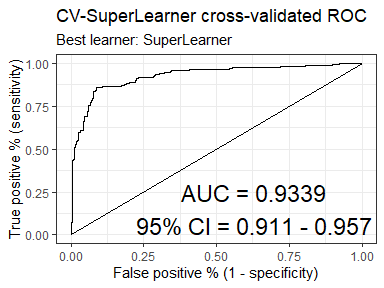
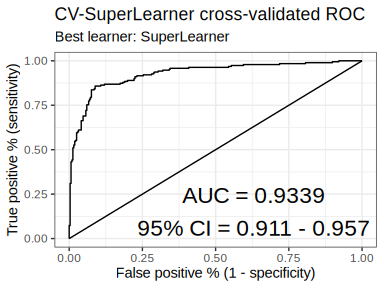
Re-knit README and carry badge update into README.Rmd
The GitHub Actions badges were added directly to README.md in e24cc59,
so re-knitting would have reverted them to Travis/AppVeyor. Move them
into README.Rmd, then regenerate README.md and its plots so the
imputation example shows SynthDiabetes2 output.

Claude-Session: https://claude.ai/code/session_01MvJCZcmRxRUZrJzJP5BBkg

diff --git a/README.md b/README.md
@@ -32,71 +32,70 @@ remotes::install_github("ck37/ck37r")
 
 ## Functions
 
--   **Project Utilities**
-    -   `import_csvs` - import all CSV files in a given directory.
-    -   `load_all_code` - source() all R files in a given directory.
-    -   `load_packages` - load a list of packages; for the ones that
-        fail it can attempt to install them automatically from CRAN,
-        then load them again.
--   **Machine Learning**
-    -   `categoricals_to_factors` - convert numeric categoricals into
-        factors.
-    -   `factors_to_indicators` - convert all factors in a dataframe to
-        series of indicators (one-hot encoding).
-    -   `impute_missing_values` - impute missing values in a dataframe
-        (median for numerics and mode for factors, GLRM, or k-nearest
-        neighbors), add missingness indicators.
-    -   `missingness_indicators` - return a matrix of missingness
-        indicators for a dataframe, (optionally) omitting any constant
-        or collinear columns.
-    -   `rf_count_terminal_nodes` - count the number of terminal nodes
-        in each tree in a random forest. That information can then be
-        used to grid-search the maximum number of nodes allowed in a
-        Random Forest (along with mtry).
-    -   `standardize` - standardize a dataset (center, scale),
-        optionally omitting certain variables.
-    -   `vim_corr` - rudimentary variable importance based on
-        correlation with an outcome.
--   **Parallelization**
-    -   `parallelize` - starts a multicore or multinode parallel
-        cluster. Automatically detects parallel nodes in a SLURM
-        environment, which makes code work seemlessly on a laptop or a
-        cluster.
-    -   `stop_cluster` - stops a cluster started by `parallelize()`.
--   **SuperLearner**
-    -   `auc_table` - table of cross-validated AUCs for each learner in
-        an ensemble, including SE, CI, and p-value. Supports
-        SuperLearner and CV.SuperLearner objects.
-    -   `gen_superlearner` - create a SuperLearner and CV.SuperLearner
-        function setup to transparently use a certain parallelization
-        configuration.
-    -   `cvsl_weights` - table of the meta-weight distribution for each
-        learner in a CV.SuperLearner analysis.
-    -   `cvsl_auc` - cross-validated AUC for a CV.SuperLearner analysis.
-    -   `plot_roc` - ROC plot with AUC and CI for a SuperLearner or
-        CV.SuperLearner object.
-    -   `plot.SuperLearner` - plot risk estimates and CIs for a
-        SuperLearner, similar to CV.Superlearner except without SL or
-        Discrete SL.
-    -   `prauc_table` - table of cross-validated PR-AUCs for each
-        learner in an ensemble, including SE and CI. Supports
-        SuperLearner and CV.SuperLearner objects.
-    -   `sl_stderr` - calculate standard error for each learner’s risk
-        in SL.
-    -   `SL.h2o_auto()` - wrapper for h2o’s automatic machine learning
-        system, to be added to SuperLearner.
-    -   `SL.bartMachine2()` - wrapper for bartMachine, to be added to
-        SuperLearner.
--   **TMLE**
-    -   `tmle_parallel` - allows the SuperLearner estimation in TMLE to
-        be customized, esp. to support parallel estimation via
-        mcSuperLearner and snowSuperLearner.
-    -   `setup_parallel_tmle` - helper function to start a cluster and
-        setup SuperLearner and tmle_parallel to use the created cluster.
--   **h2o**
-    -   `h2o_init_multinode()` - function to start an h2o cluster on
-        multiple nodes from within R, intended for use on SLURM or other
-        multi-node clusters.
+- **Project Utilities**
+  - `import_csvs` - import all CSV files in a given directory.
+  - `load_all_code` - source() all R files in a given directory.
+  - `load_packages` - load a list of packages; for the ones that fail it
+    can attempt to install them automatically from CRAN, then load them
+    again.
+- **Machine Learning**
+  - `categoricals_to_factors` - convert numeric categoricals into
+    factors.
+  - `factors_to_indicators` - convert all factors in a dataframe to
+    series of indicators (one-hot encoding).
+  - `impute_missing_values` - impute missing values in a dataframe
+    (median for numerics and mode for factors, GLRM, or k-nearest
+    neighbors), add missingness indicators.
+  - `missingness_indicators` - return a matrix of missingness indicators
+    for a dataframe, (optionally) omitting any constant or collinear
+    columns.
+  - `rf_count_terminal_nodes` - count the number of terminal nodes in
+    each tree in a random forest. That information can then be used to
+    grid-search the maximum number of nodes allowed in a Random Forest
+    (along with mtry).
+  - `standardize` - standardize a dataset (center, scale), optionally
+    omitting certain variables.
+  - `vim_corr` - rudimentary variable importance based on correlation
+    with an outcome.
+- **Parallelization**
+  - `parallelize` - starts a multicore or multinode parallel cluster.
+    Automatically detects parallel nodes in a SLURM environment, which
+    makes code work seemlessly on a laptop or a cluster.
+  - `stop_cluster` - stops a cluster started by `parallelize()`.
+- **SuperLearner**
+  - `auc_table` - table of cross-validated AUCs for each learner in an
+    ensemble, including SE, CI, and p-value. Supports SuperLearner and
+    CV.SuperLearner objects.
+  - `gen_superlearner` - create a SuperLearner and CV.SuperLearner
+    function setup to transparently use a certain parallelization
+    configuration.
+  - `cvsl_weights` - table of the meta-weight distribution for each
+    learner in a CV.SuperLearner analysis.
+  - `cvsl_auc` - cross-validated AUC for a CV.SuperLearner analysis.
+  - `plot_roc` - ROC plot with AUC and CI for a SuperLearner or
+    CV.SuperLearner object.
+  - `plot.SuperLearner` - plot risk estimates and CIs for a
+    SuperLearner, similar to CV.Superlearner except without SL or
+    Discrete SL.
+  - `prauc_table` - table of cross-validated PR-AUCs for each learner in
+    an ensemble, including SE and CI. Supports SuperLearner and
+    CV.SuperLearner objects.
+  - `sl_stderr` - calculate standard error for each learner’s risk in
+    SL.
+  - `SL.h2o_auto()` - wrapper for h2o’s automatic machine learning
+    system, to be added to SuperLearner.
+  - `SL.bartMachine2()` - wrapper for bartMachine, to be added to
+    SuperLearner.
+- **TMLE**
+  - `tmle_parallel` - allows the SuperLearner estimation in TMLE to be
+    customized, esp. to support parallel estimation via mcSuperLearner
+    and snowSuperLearner.
+  - `setup_parallel_tmle` - helper function to start a cluster and setup
+    SuperLearner and tmle_parallel to use the created cluster.
+- **h2o**
+  - `h2o_init_multinode()` - function to start an h2o cluster on
+    multiple nodes from within R, intended for use on SLURM or other
+    multi-node clusters.
 
 ## Examples
 
@@ -104,19 +103,18 @@ remotes::install_github("ck37/ck37r")
 
 ``` r
 # Load a test dataset.
-# TODO: need to switch to a different dataset.
-data(PimaIndiansDiabetes2, package = "mlbench")
+data(SynthDiabetes2, package = "mlbench")
 
 # Check for missing values.
-colSums(is.na(PimaIndiansDiabetes2))
+colSums(is.na(SynthDiabetes2))
 #> pregnant  glucose pressure  triceps  insulin     mass pedigree      age 
-#>        0        5       35      227      374       11        0        0 
+#>        0        5       35      251      405       13        0        0 
 #> diabetes 
 #>        0
 
 # Impute missing data and add missingness indicators.
 # Don't impute the outcome though.
-result = impute_missing_values(PimaIndiansDiabetes2, skip_vars = "diabetes")
+result = impute_missing_values(SynthDiabetes2, skip_vars = "diabetes")
 
 # Confirm we have no missing data.
 colSums(is.na(result$data))
@@ -134,9 +132,13 @@ We are using default hyperparameters here, but it would be best to
 optimize the hyperparameters.
 
 ``` r
+
 #############
 # Generalized low-rank model imputation via h2o.
-result2 = impute_missing_values(PimaIndiansDiabetes2, type = "glrm", skip_vars = "diabetes")
+result2 = impute_missing_values(SynthDiabetes2, type = "glrm", skip_vars = "diabetes")
+#> Warning in h2o.clusterInfo(): 
+#> Your H2O cluster version is (2 years, 9 months and 10 days) old. There may be a newer version available.
+#> Please download and install the latest version from: https://h2o-release.s3.amazonaws.com/h2o/latest_stable.html
 
 # Confirm we have no missing data.
 colSums(is.na(result2$data))
@@ -156,14 +158,14 @@ that aren’t already installed.
 ``` r
 # Load these 4 packages and install them if necessary.
 load_packages(c("MASS", "SuperLearner", "tmle", "doParallel"), auto_install = TRUE)
-#> Loaded gam 1.20
+#> Loaded gam 1.22-7
 #> Super Learner
-#> Version: 2.0-28
-#> Package created on 2021-05-04
-#> Loaded glmnet 4.1-3
-#> Welcome to the tmle package, version 1.5.0-1.1
+#> Version: 2.0-42
+#> Package created on 2026-09-14
+#> Loaded glmnet 5.1
+#> Welcome to the tmle package, version 2.1.1
 #> 
-#> Major changes since v1.3.x. Use tmleNews() to see details on changes and bug fixes
+#> Use tmleNews() to see details on changes and bug fixes
 ```
 
 ### Random Forest: count terminal nodes
@@ -310,6 +312,13 @@ set.seed(1)
 #> SL.lm_All   24.95053 0.96358024
 
 plot(sl, y = Boston$medv)
+#> Warning: `aes_()` was deprecated in ggplot2 3.0.0.
+#> i Please use tidy evaluation idioms with `aes()`
+#> i The deprecated feature was likely used in the ck37r package.
+#>   Please report the issue at <https://github.com/ck37/ck37r/issues>.
+#> This warning is displayed once per session.
+#> Call `lifecycle::last_lifecycle_warnings()` to see where this warning was
+#> generated.
 ```
 
 ![](images/README-plot_sl-1.png)<!-- -->
@@ -342,6 +351,12 @@ set.seed(1)
 #> SL.glm_All  0.0976933 0.8269582
 
 plot_roc(sl, y = y)
+#> Warning: `qplot()` was deprecated in ggplot2 3.4.0.
+#> i The deprecated feature was likely used in the ck37r package.
+#>   Please report the issue at <https://github.com/ck37/ck37r/issues>.
+#> This warning is displayed once per session.
+#> Call `lifecycle::last_lifecycle_warnings()` to see where this warning was
+#> generated.
 ```
 
 ![](images/README-sl_plot_roc-1.png)<!-- -->
